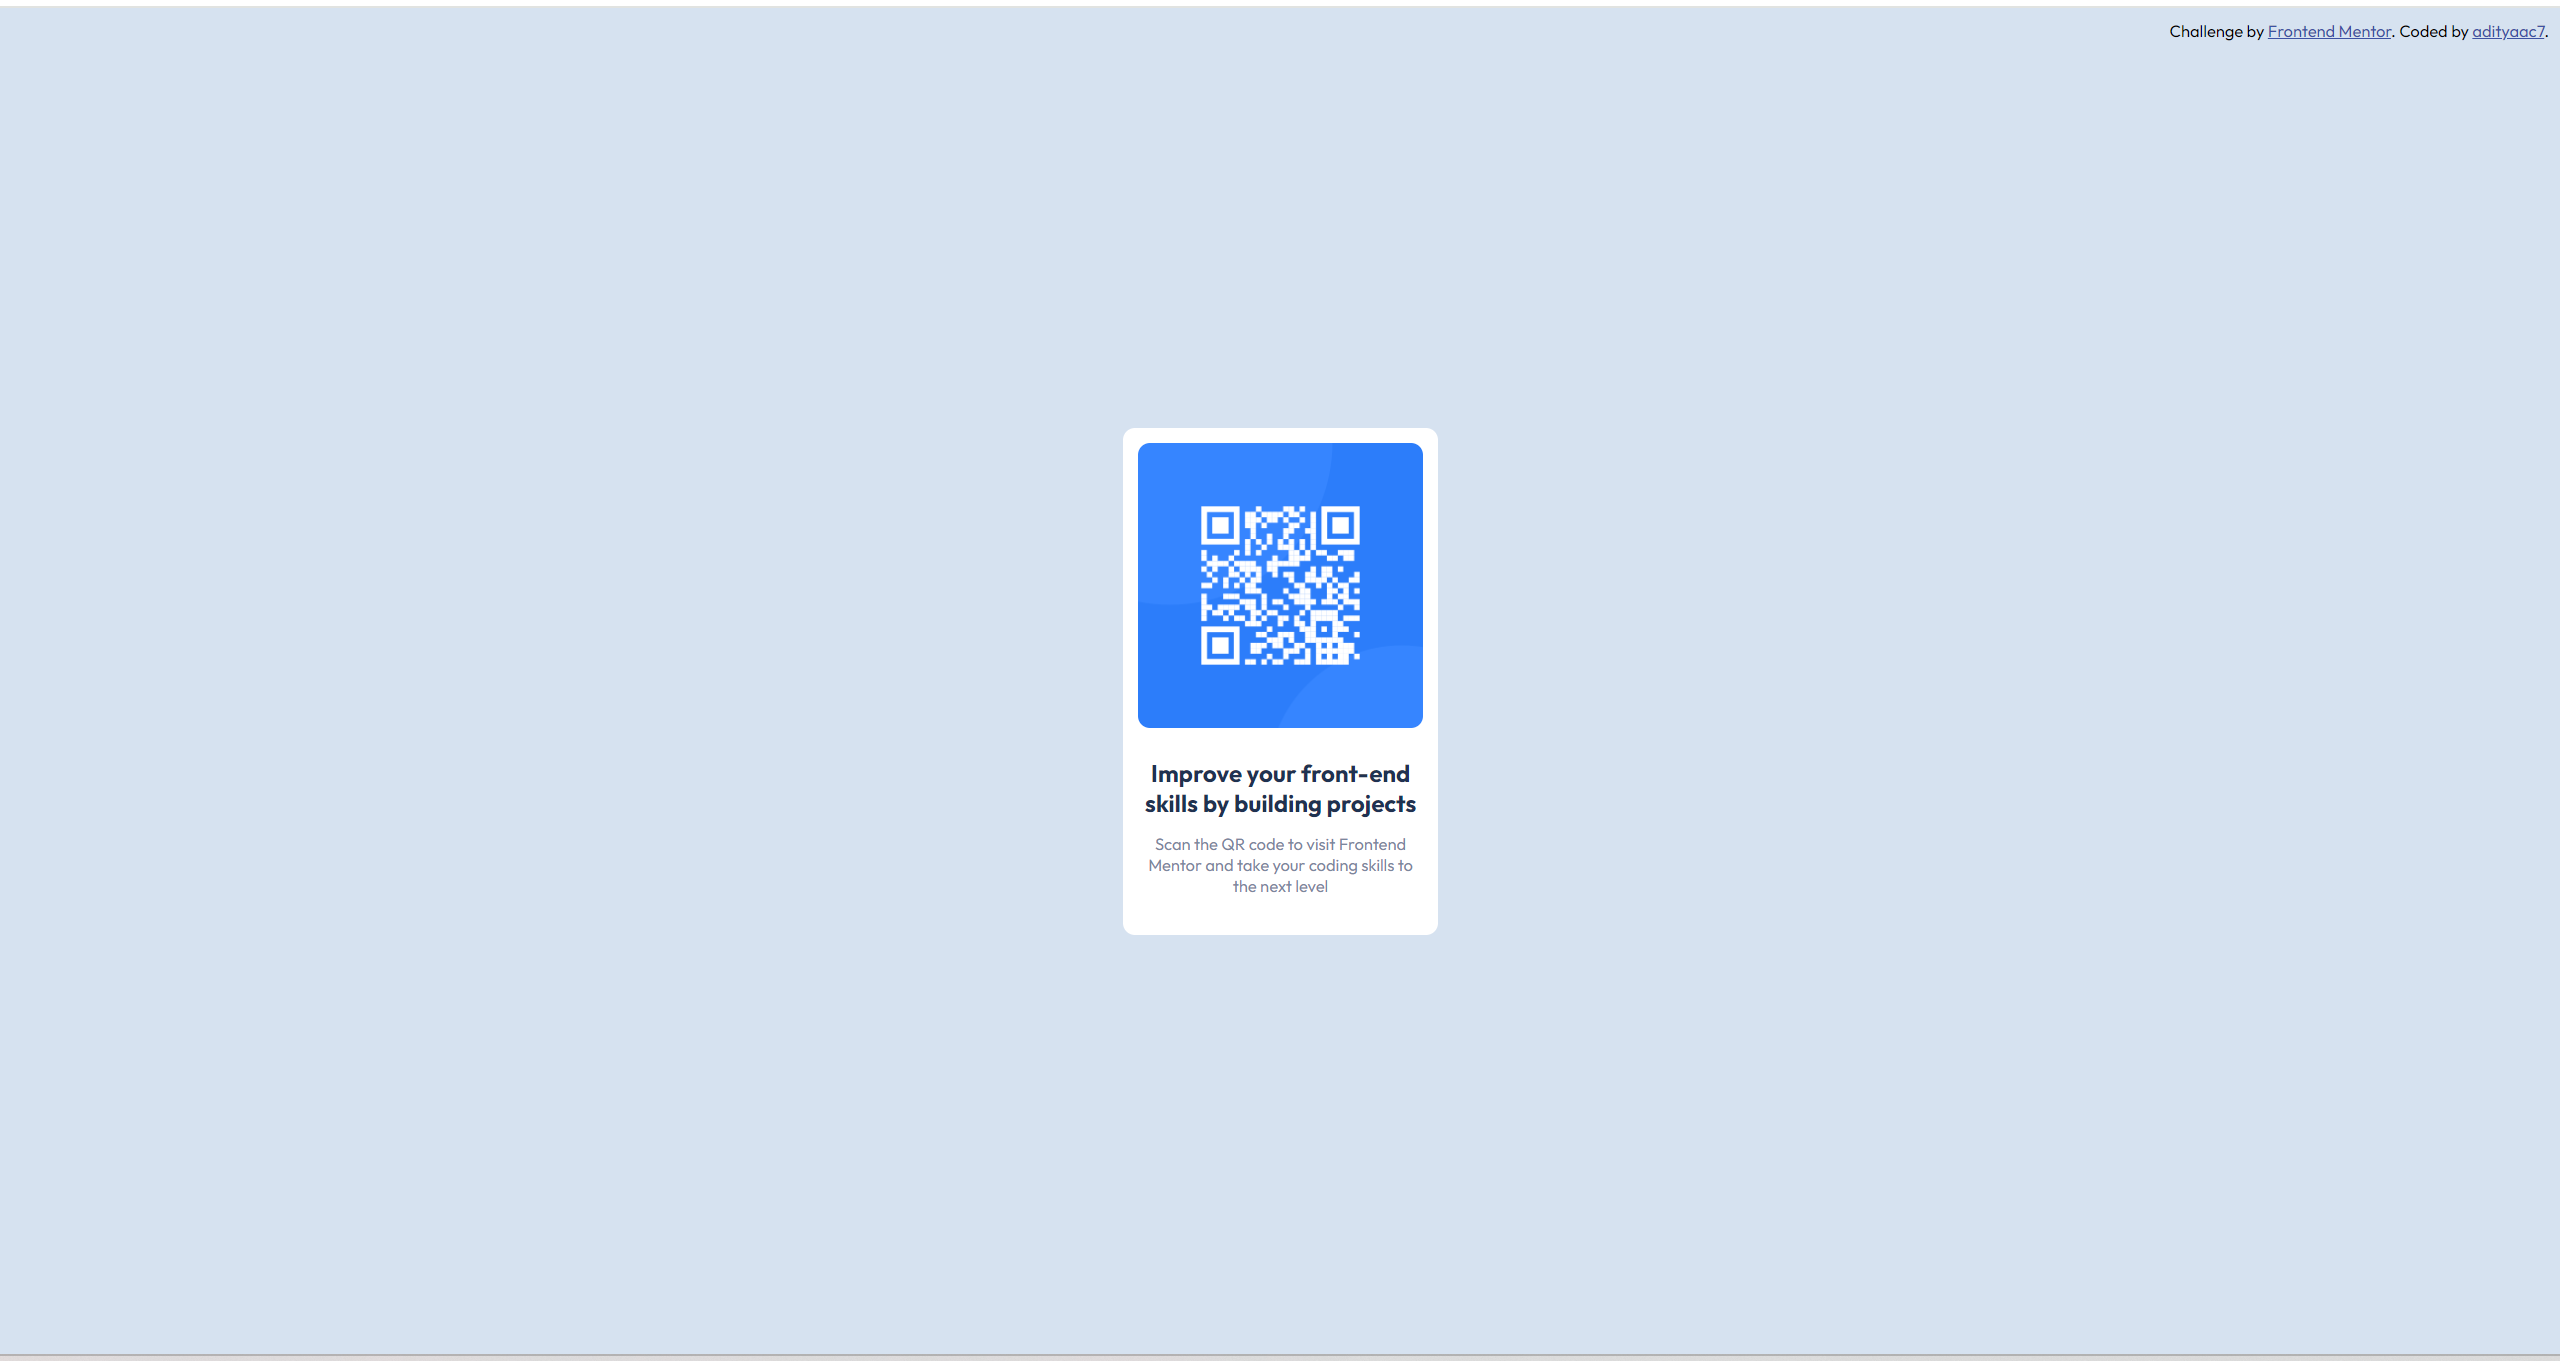
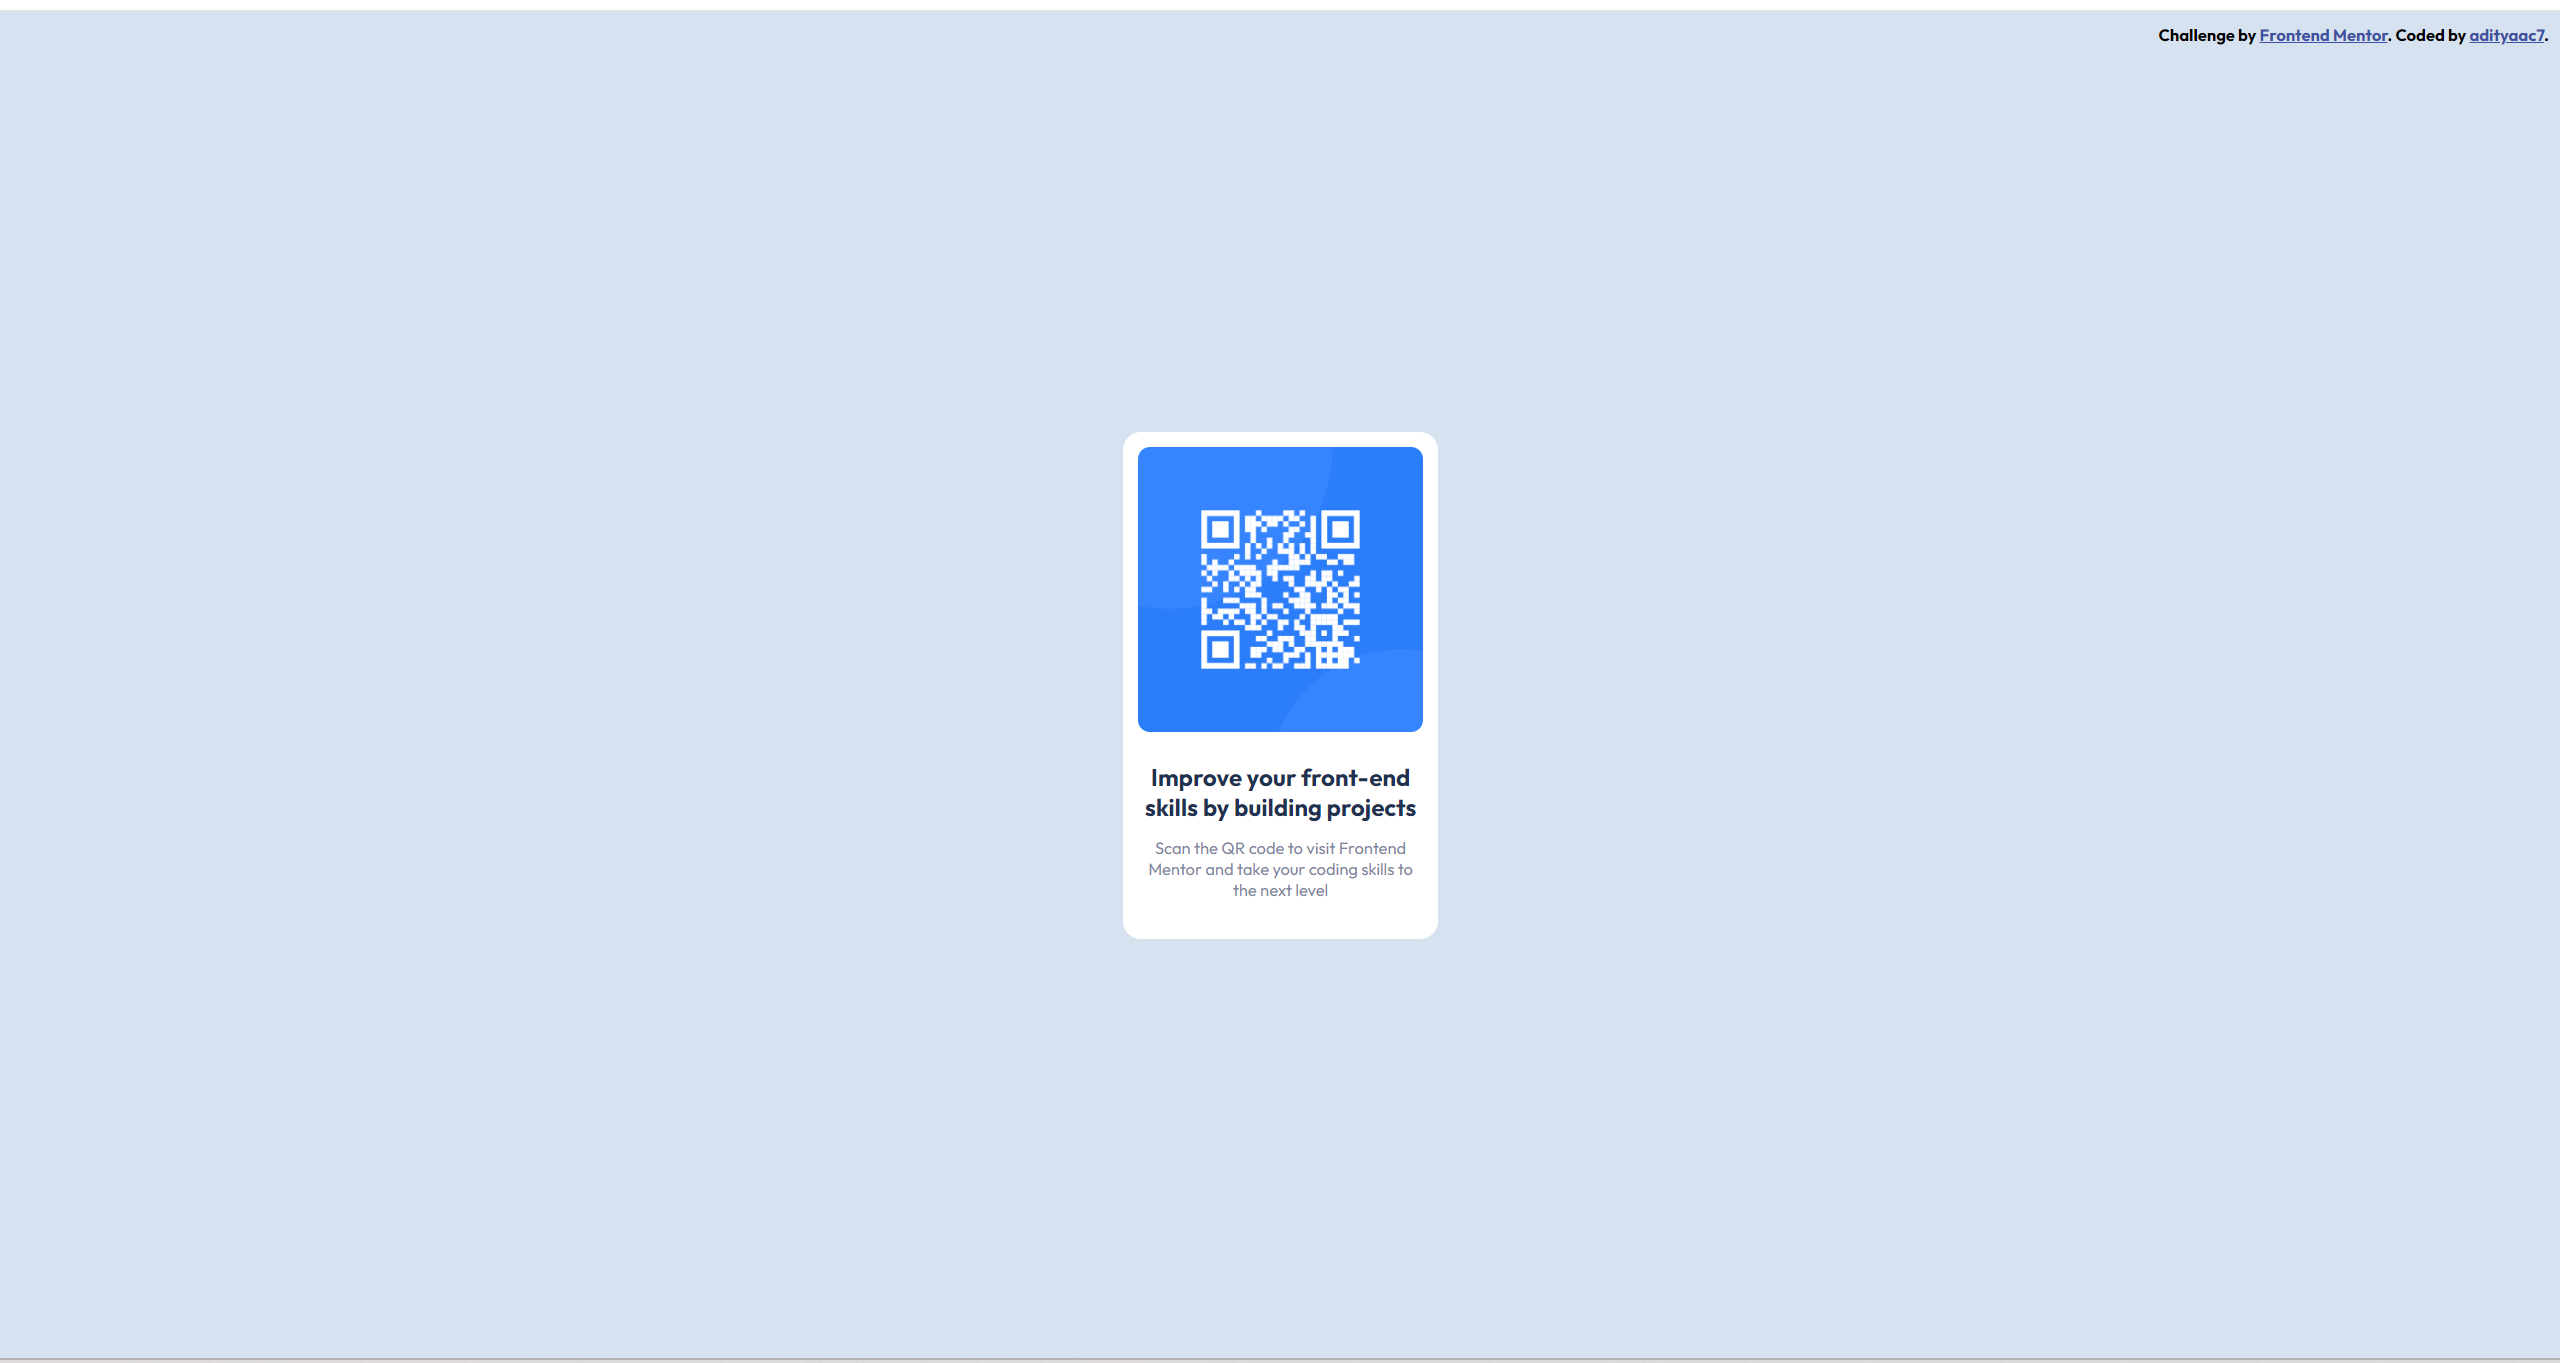
commit

diff --git a/index.html b/index.html
@@ -19,13 +19,11 @@
 </head>
 <body>
   <header>
-    <h1>
-      <div class="attribution">
-        Challenge by 
-        <a href="https://www.frontendmentor.io?ref=challenge" 
-          target="_blank">Frontend Mentor</a>. 
-        Coded by <a href="https://github.com/adityaac7/">adityaac7</a>.
-      </div>
+    <h1 class="attribution">
+      Challenge by 
+      <a href="https://www.frontendmentor.io?ref=challenge" 
+        target="_blank">Frontend Mentor</a>. 
+      Coded by <a href="https://github.com/adityaac7/">adityaac7</a>.
     </h1>
   </header>
 

diff --git a/styles/main.css b/styles/main.css
@@ -13,15 +13,12 @@ body{
 .div-1{
   display: flex;
   flex-direction: column;
-  justify-content: center;
-  align-items: center;
   max-width: 190px;
   padding: 10px;
   margin: auto;
-  border-radius: 8px;
+  border-radius: 12px;
   background-color: white;
   position: fixed;
-  max-height: 100dvh;
   inset: 0px;
   height: fit-content;
 }

diff --git a/README.md b/README.md
@@ -13,7 +13,6 @@ This is a solution to the [QR code component challenge on Frontend Mentor](https
   - [Continued development](#continued-development)
   - [Useful resources](#useful-resources)
 - [Author](#author)
-- [Acknowledgments](#acknowledgments)
 
 **Note: Delete this note and update the table of contents based on what sections you keep.**
 
@@ -30,70 +29,36 @@ The project aims to provide a straightforward example of integrating a QR code i
 
 ### Links
 
-- Solution URL: [Add solution URL here](https://your-solution-url.com)
+- Solution URL: (https://www.frontendmentor.io/solutions/qr-code-component-BEVXnvCfMN)
 - Live Site URL: https://adityaac7.github.io/qr-code-component/
 
 ## My process
 
-Before starting with the code, I went through all the resources I had and would need in order to complete it perfectly. This included reviewing the design on the .fig file and other images. 
+Before starting with the code, I went through all the resources I had and would need in order to complete it perfectly. This included reviewing the design on the .fig file and other images. I drew all the components into boxes in my mind, and replicated it into HTML using `<div>`s and other elements. Used flexbox to organise all content. Had some difficulties centering the content in the viewport and changing the background-color in the entire viewport, resolved succesfully by trying different things out.
 
 ### Built with
 
 - Semantic HTML5 markup
 - CSS custom properties
 - Flexbox
-- CSS Grid
-- [Styled Components](https://styled-components.com/) - For styles
-
-**Note: These are just examples. Delete this note and replace the list above with your own choices**
 
 ### What I learned
 
-Use this section to recap over some of your major learnings while working through this project. Writing these out and providing code samples of areas you want to highlight is a great way to reinforce your own knowledge.
-
-To see how you can add code snippets, see below:
-
-```html
-<h1>Some HTML code I'm proud of</h1>
-```
-```css
-.proud-of-this-css {
-  color: papayawhip;
-}
-```
-```js
-const proudOfThisFunc = () => {
-  console.log('🎉')
-}
-```
-
-If you want more help with writing markdown, we'd recommend checking out [The Markdown Guide](https://www.markdownguide.org/) to learn more.
-
-**Note: Delete this note and the content within this section and replace with your own learnings.**
+Learned how to successfully center an element in the middle of a page/viewport, work with figma designs, how to start with GitHub by building the project in a public repository, commiting changes in a project, and a lot more.
 
 ### Continued development
 
-Use this section to outline areas that you want to continue focusing on in future projects. These could be concepts you're still not completely comfortable with or techniques you found useful that you want to refine and perfect.
+I'm still not a 100% sure about my CSS and there are definitely ways to make my code simpler and cleaner. For example, the use of flexbox in my project might not even be needed, yet I have used it. I am waiting on feedback from seniors in my community and will make changes accordingly. There is a high possibility that I will add extra features to this project in the future and make it more dynamic and useful for general use.
 
-**Note: Delete this note and the content within this section and replace with your own plans for continued development.**
 
 ### Useful resources
 
-- [Example resource 1](https://www.example.com) - This helped me for XYZ reason. I really liked this pattern and will use it going forward.
-- [Example resource 2](https://www.example.com) - This is an amazing article which helped me finally understand XYZ. I'd recommend it to anyone still learning this concept.
+- [Frontendmentor's Discord Community](https://discord.gg/UAfh3qzhYb) - I recieved help from seniors in this community when I was stuck on how to vertically center an element in the viewport. I recommend it to anyone who needs feedback or suggestions regarding their project as well.
 
-**Note: Delete this note and replace the list above with resources that helped you during the challenge. These could come in handy for anyone viewing your solution or for yourself when you look back on this project in the future.**
+- [Article on how to center a div](https://www.joshwcomeau.com/css/center-a-div/) - This is an amazing article which helped me fully understand centering any element (here, a `<div>`). I'd recommend it to anyone still learning this concept.
+
 
 ## Author
 
-- Website - [Add your name here](https://www.your-site.com)
-- Frontend Mentor - [@yourusername](https://www.frontendmentor.io/profile/yourusername)
-- Twitter - [@yourusername](https://www.twitter.com/yourusername)
-
-**Note: Delete this note and add/remove/edit lines above based on what links you'd like to share.**
-
-## Acknowledgments
-
-This is where you can give a hat tip to anyone who helped you out on this project. Perhaps you worked in a team or got some inspiration from someone else's solution. This is the perfect place to give them some credit.
-
-**Note: Delete this note and edit this section's content as necessary. If you completed this challenge by yourself, feel free to delete this section entirely.**
+- Frontend Mentor - [@adityaac7](https://www.frontendmentor.io/profile/adityaac7)
+- GitHub - [@adityaac7](https://github.com/adityaac7)
